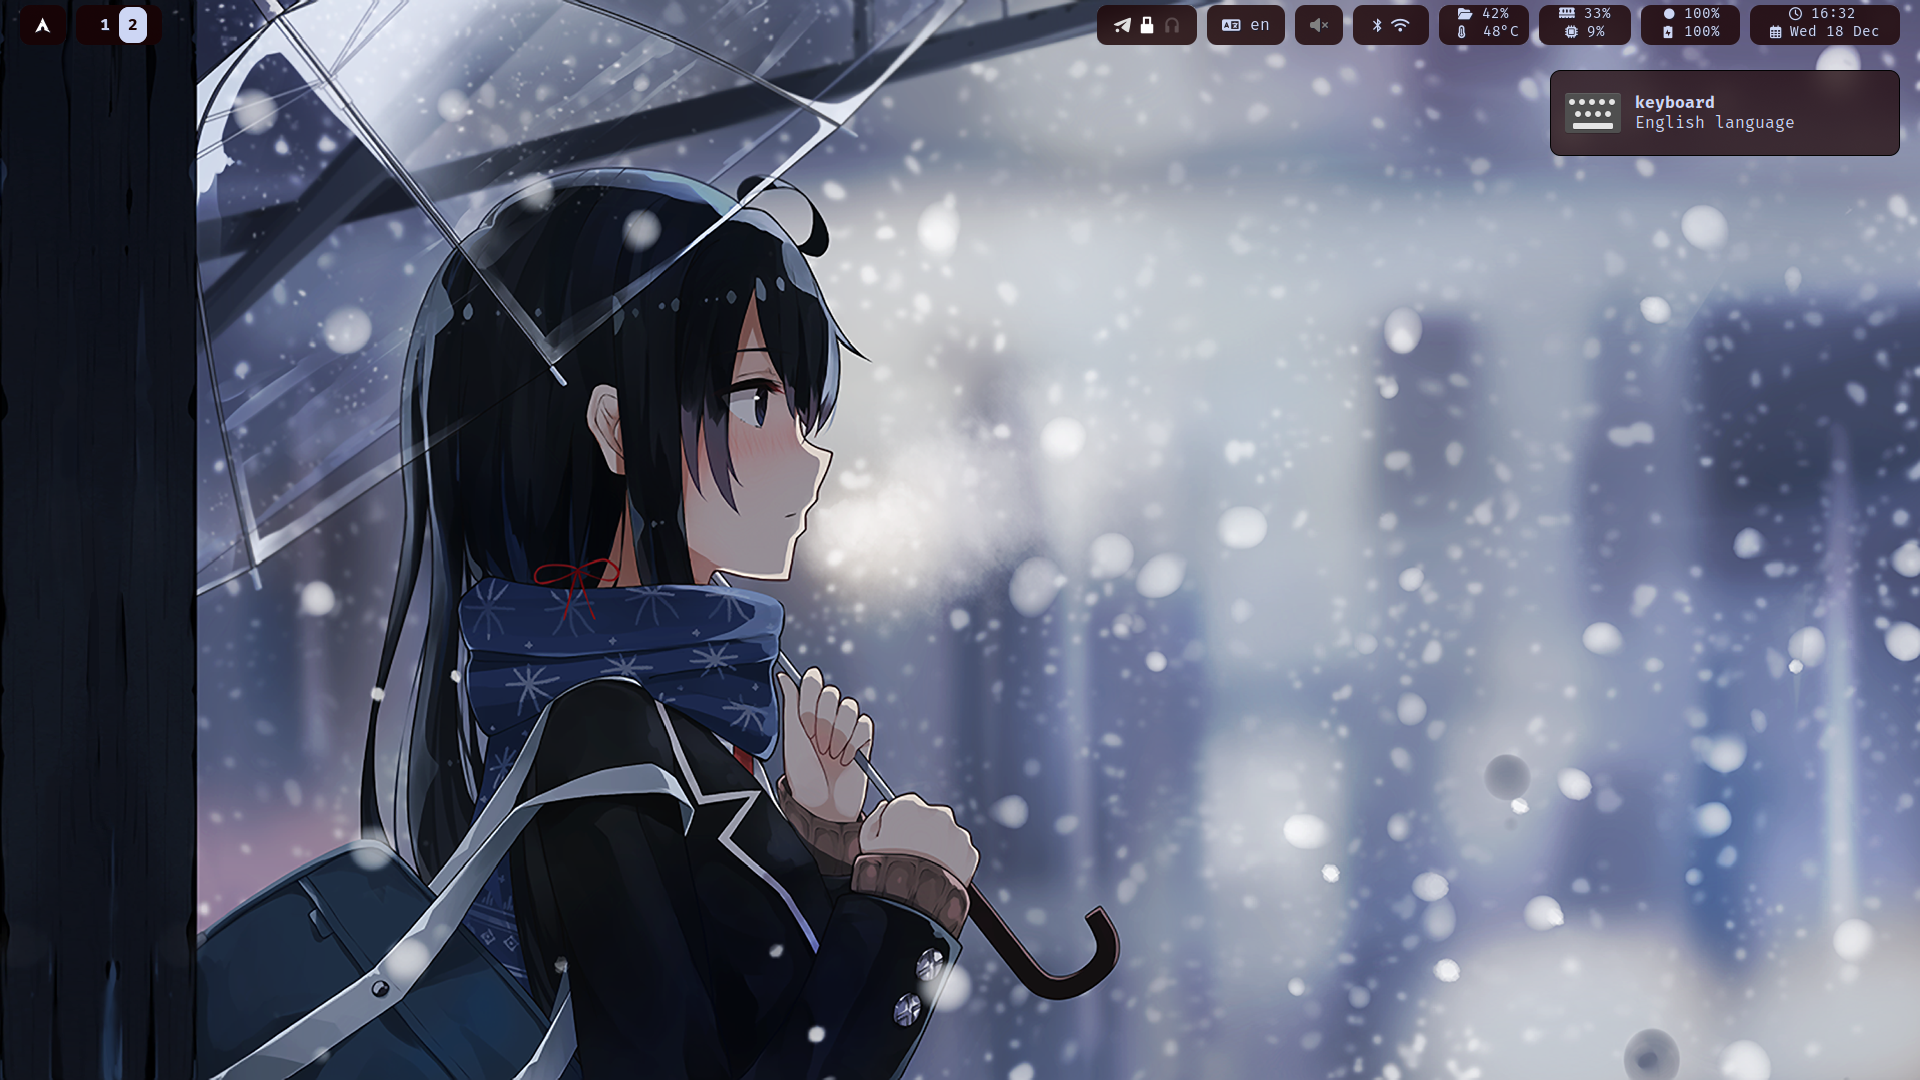
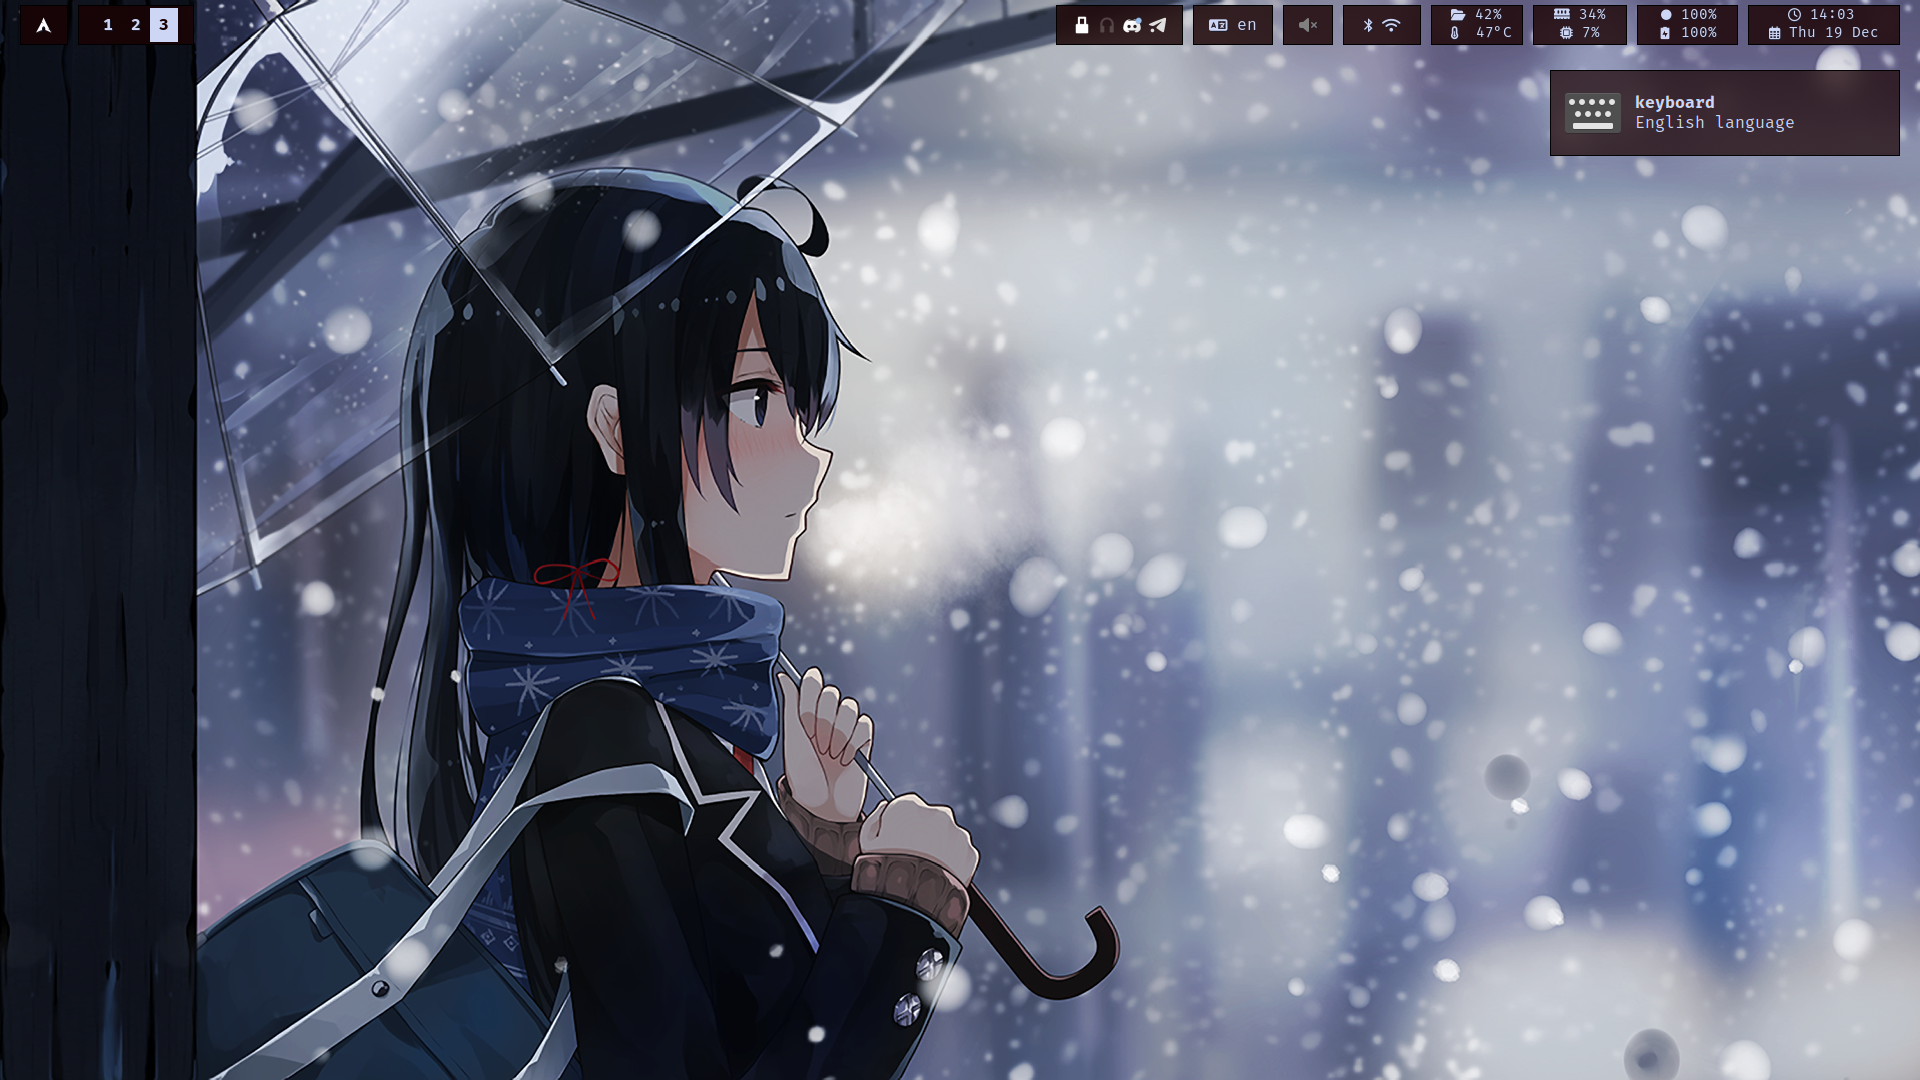
sharp borders

Changed region(s): [[0.5312, 0.0, 0.9688, 0.0611], [0.0625, 0.0, 0.0938, 0.0611]]

diff --git a/dot_config/waybar/executable_style.css b/dot_config/waybar/executable_style.css
@@ -23,7 +23,8 @@
 #workspaces,
 #language,
 #tray {
-  border-radius: 10px;
+  border-radius: 0px;
+  border:  1px solid @border;
   background-color: alpha(@base, 0.8);
   margin-top: 5px;
   margin-bottom: 5px;
@@ -162,7 +163,7 @@ window#waybar.fullscreen #window {
 }
 
 #workspaces button {
-    border-radius: 10px;
+    border-radius: 0px;
     padding-left: 5px;
     padding-right: 5px;
     color: @text;
@@ -170,7 +171,7 @@ window#waybar.fullscreen #window {
 }
 
 #workspaces button.active {
-    border-radius: 10px;
+    border-radius: 0px;
     margin-top: 2px;    
     margin-bottom: 2px; 
     border-color: @text;
@@ -180,7 +181,7 @@ window#waybar.fullscreen #window {
 }
 
 #workspaces button.urgent {
-    border-radius: 10px;
+    border-radius: 0px;
     margin-top: 2px;    
     margin-bottom: 2px; 
     border-color: @warning;
@@ -190,11 +191,11 @@ window#waybar.fullscreen #window {
 }
 
 #workspaces button.special {
-    border-radius: 10px;
+    border-radius: 0px;
     margin-left:5px;
     margin-top: 2px;    
     margin-bottom: 2px; 
-    border-color: @text;
+    border-color: @border;
     color: @base;
     background-color: @warning; 
     text-shadow: none;
@@ -224,7 +225,7 @@ window#waybar.fullscreen #window {
 
 /* Tooltips styling */
 tooltip {
-     border-radius: 10px;
+     border-radius: 0px;
      background-color: alpha (@base, 0.6);
 }
 
@@ -233,10 +234,10 @@ tooltip label {
 }
 
 menu {
-	border-radius: 10px;
+	border-radius: 0px;
 	background: alpha (@base, 0.6);
 	color: @text;
 }
 menuitem {
-	border-radius: 10px;
+	border-radius: 0px;
 }

diff --git a/dot_config/waybar/private_vampiric.css b/dot_config/waybar/private_vampiric.css
@@ -3,3 +3,4 @@
 @define-color warning #f38ba8;
 @define-color critical #9b111e;
 @define-color shadow #1c1d2e;
+@define-color border #000000;
